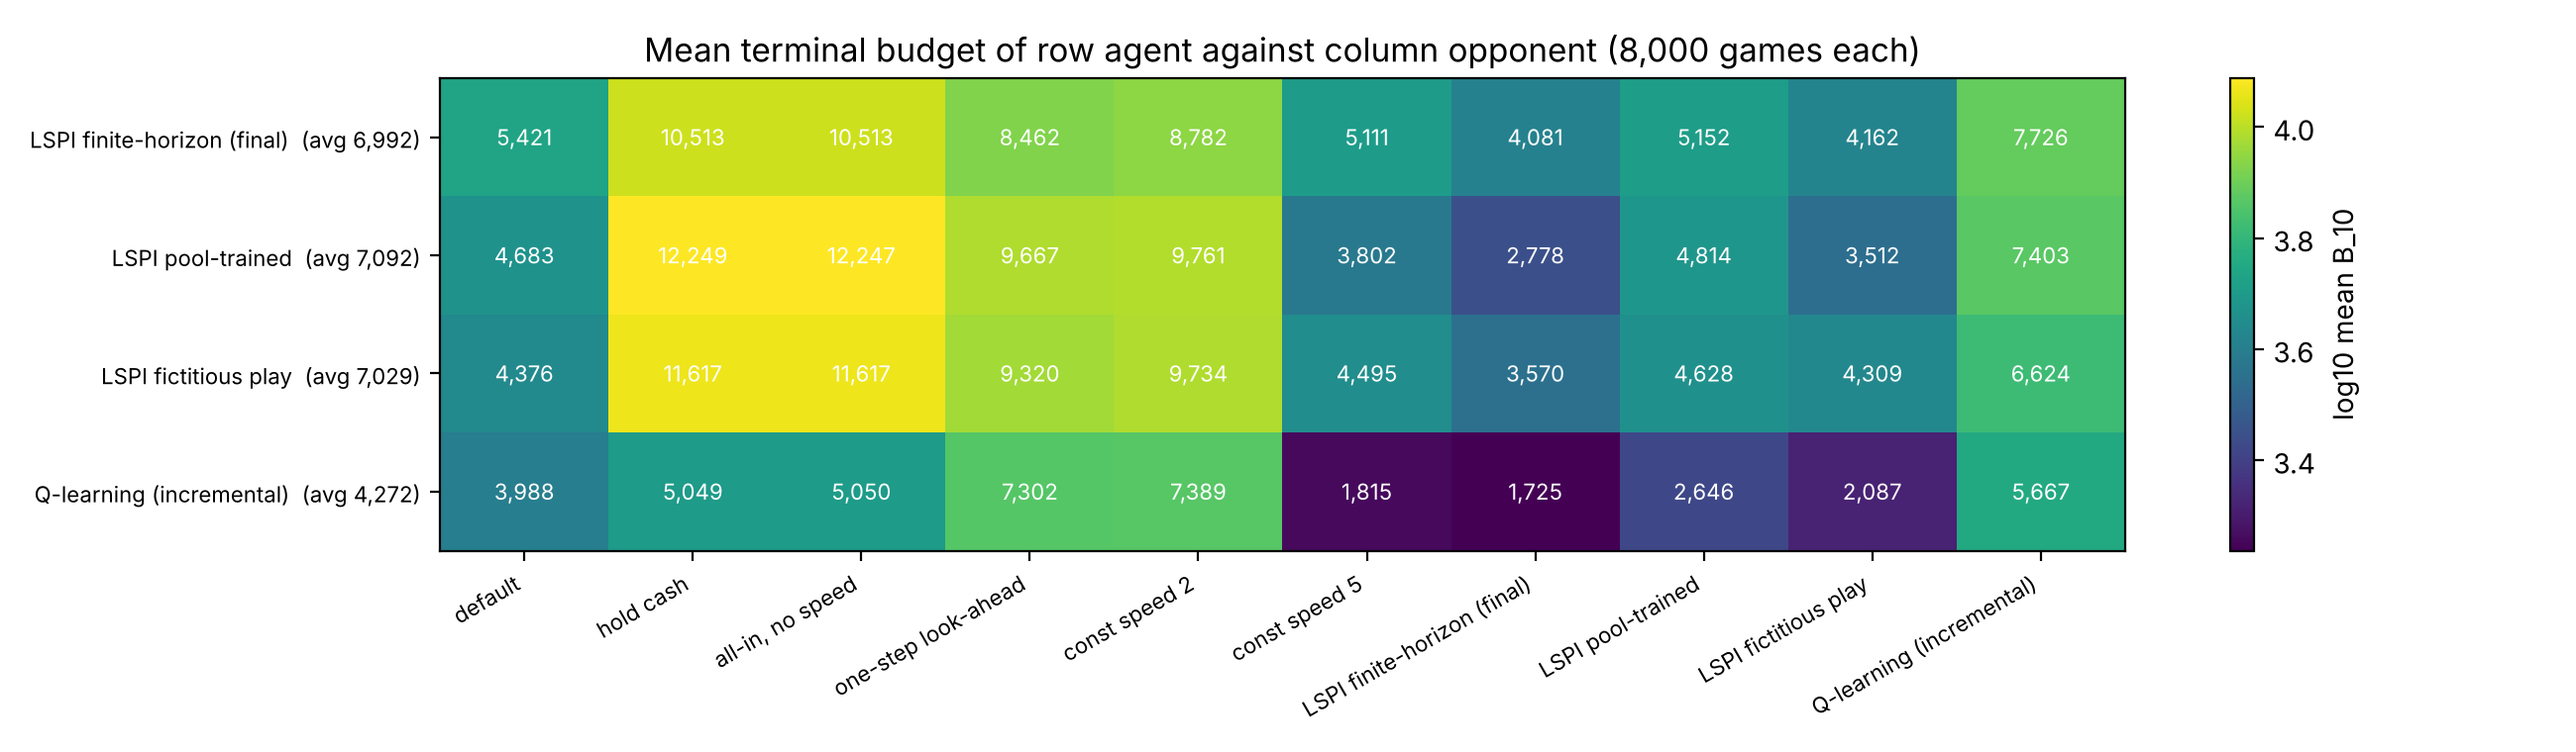
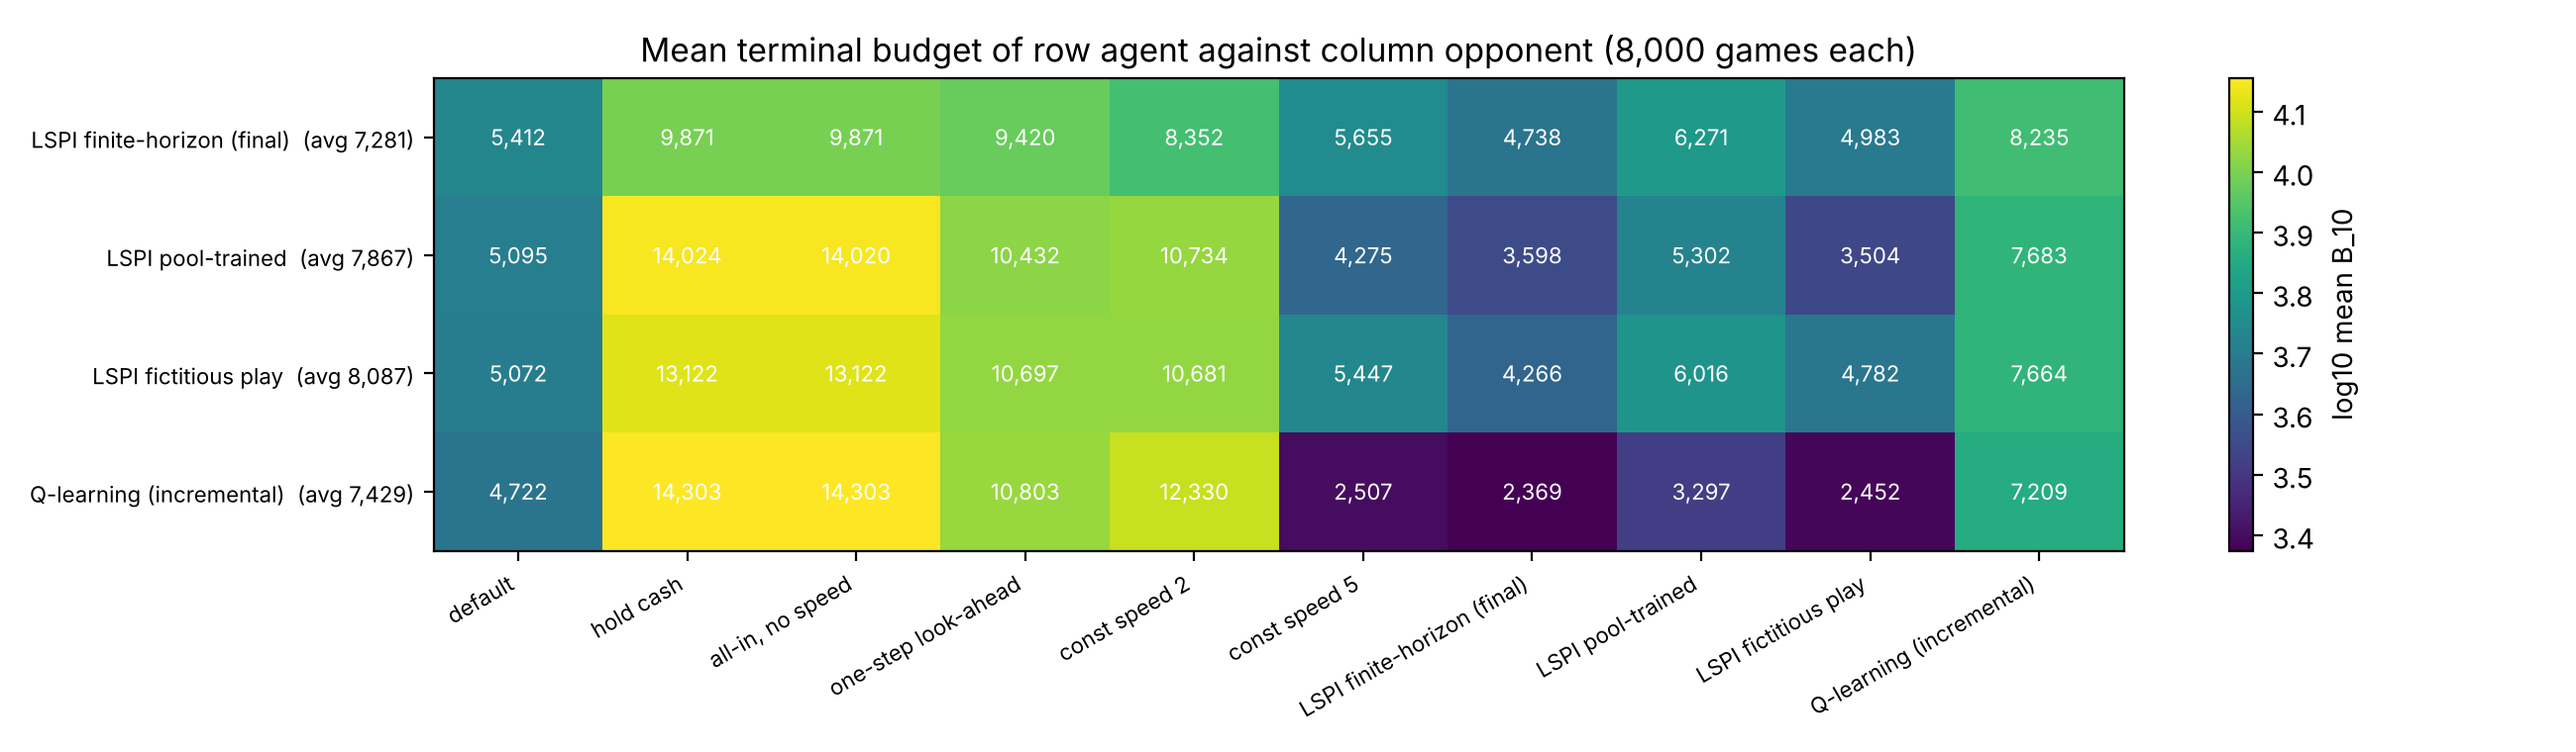
2.4: rerun on sim_game, use group features, freeze fix

diff --git a/refine.py b/refine.py
@@ -29,6 +29,7 @@ from scipy.special import ndtr
 
 from default_opponent import default_opponent_policy
 from environment import sim_game
+from features import state_features
 
 
 T = 10
@@ -61,8 +62,12 @@ def rollouts(policy, opponent, n_games, seed=0, record=False):
                 delta = float(np.nextafter(delta, 0.0))
             remaining = budget - delta**2
             x = min(max(float(x[0]), -remaining), remaining)
-            while delta**2 + abs(x) > budget:
+            for _ in range(1000):          # a few rounding steps are normally enough
+                if delta**2 + abs(x) <= budget:
+                    break
                 x = float(np.nextafter(x, 0.0))
+            else:                          # |x| is negligibly small: trade nothing
+                x = 0.0
             return [delta, x]
 
         return act
@@ -232,34 +237,10 @@ N_ACTIONS = len(U_GRID)
 # ---------------------------------------------------------------------------
 # State features: same 50 indicators as features.state_features, vectorised
 # ---------------------------------------------------------------------------
-def _onehot(idx, k):
-    """One-hot rows: column idx[i] of row i is 1, all others 0."""
-    out = np.zeros((len(idx), k))
-    out[np.arange(len(idx)), idx] = 1
-    return out
-
-
 def state_features_batch(st):
-    """Vectorised version of features.state_features (identical bins).
-
-    Returns an (n, 50) matrix: time (5) | own budget (8) | opponent budget (8) |
-    speed difference (7) | informativeness R (10) | sign of g (3) | |g| (9).
-    """
-    t = st["t"].astype(int)
-    d = st["S_self"] - st["S_opp"]
-    # speed-difference bins (-inf,-5), [-5,-3), [-3,0), {0}, (0,3), [3,5), [5,inf)
-    sp = np.select([d < -5, d < -3, d < 0, d == 0, d < 3, d < 5],
-                   [0, 1, 2, 3, 4, 5], 6)
-    g = st["g"]
-    return np.hstack([
-        _onehot(t // 2, 5),
-        _onehot(np.searchsorted([20, 40, 60, 80, 100, 120, 150], st["B_self"], "right"), 8),
-        _onehot(np.searchsorted([20, 40, 60, 80, 100, 120, 150], st["B_opp"], "right"), 8),
-        _onehot(sp, 7),
-        _onehot(np.searchsorted(np.arange(1, 10) / 10, st["R"], "right"), 10),
-        _onehot(np.select([g < 0, g == 0], [0, 1], 2), 3),
-        _onehot(np.searchsorted([.5, 1, 1.5, 2, 2.5, 3, 4, 10], np.abs(g), "right"), 9),
-    ])
+    """The group's 50 state indicators (features.state_features) for a batch of states."""
+    rows = zip(*(st[k] for k in ("t", "B_self", "B_opp", "S_self", "S_opp", "g", "R")))
+    return np.array([state_features(list(r)) for r in rows], dtype=float).reshape(-1, 50)
 
 
 # ---------------------------------------------------------------------------

diff --git a/refine_experiments.py b/refine_experiments.py
@@ -35,8 +35,8 @@ AGENT_FILE = Path("rlagent") / "agentE_theta.npy"
 FINAL_CFG = dict(n_rounds=6, games_per_round=6000, epsilon=0.1, ridge=1.0,
                  buffer_rounds=6, seed=0, eval_games=2000)
 EXTRA_SEEDS = [1, 2, 3, 4]
-AC_CFG = dict(n_updates=12000, games=512, lr=1e-3, entropy=0.003, clip_return=1000.0,
-              seed=0, eval_every=1200, eval_games=10000)
+AC_CFG = dict(n_updates=3000, games=256, lr=1e-3, entropy=0.003, clip_return=1000.0,
+              seed=0, eval_every=300, eval_games=5000)   # 12,000 x 512 would take ~7 h on a CPU
 QL_CFG = dict(n_batches=60, games_per_batch=1000, alpha0=0.05, eps0=0.3,
               eps_min=0.05, eval_every=10, eval_games=10000, seed=7)
 POOL_CFG = dict(n_rounds=8, games_per_round=6000, epsilon=0.1, ridge=1.0,
@@ -225,7 +225,7 @@ def write_tuning_table():
          "as in mini-problem set 6; inputs: 9 scaled state variables + 50 indicators"),
         ("actor-critic training", f"{AC_CFG['n_updates']} updates × {AC_CFG['games']} games, Adam "
          f"lr {AC_CFG['lr']}/(1+5k/K), entropy {AC_CFG['entropy']}",
-         "longer training / larger batches (2,048) gave the same value"),
+         "decreasing step size; sized to run in about an hour on a CPU"),
         ("actor-critic return", f"ρ = B_T/B_t clipped at {AC_CFG['clip_return']:g}; standardised advantage; Huber critic",
          "per-unit-wealth return as for LSPI; clipping limits rare huge returns"),
         ("pool training weights", "default 3, hold 1, all-in 1, look-ahead 1, const-speed-2 1, "
@@ -269,7 +269,7 @@ def make_figures(perf, curves, budgets, robust, theta_final):
     axes[0].set(xlabel="LSPI round (6,000 new ε-greedy games per round)",
                 ylabel="Greedy mean terminal budget vs default", title="Batch control: finite-horizon LSPI")
     axes[1].set(xlabel="Q-learning batch (1,000 games per batch)", title="Incremental Q-learning")
-    axes[2].set(xlabel="Actor-critic update (512 games per update)", title="Actor-critic (neural network)")
+    axes[2].set(xlabel=f"Actor-critic update ({AC_CFG['games']} games per update)", title="Actor-critic (neural network)")
     _save(fig, "fig_2_4_learning_curves.png")
 
     # Figure: held-out performance of every policy against the default

diff --git a/rlagent/agentE.py b/rlagent/agentE.py
@@ -120,6 +120,10 @@ def policy(t, B_self, B_opp, S_self, S_opp, g, R):
         delta = float(np.nextafter(delta, 0.0))
     W = B_self - delta**2
     x = float(np.sign(g) * V_GRID[k] * W)
-    while delta**2 + abs(x) > B_self:
+    for _ in range(1000):              # a few rounding steps are normally enough
+        if delta**2 + abs(x) <= B_self:
+            break
         x = float(np.nextafter(x, 0.0))
+    else:                              # |x| is negligibly small: trade nothing
+        x = 0.0
     return delta, x
